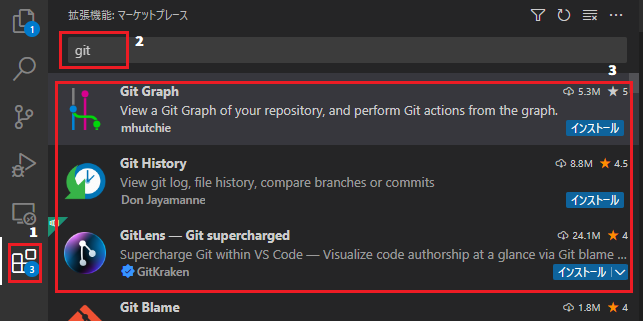
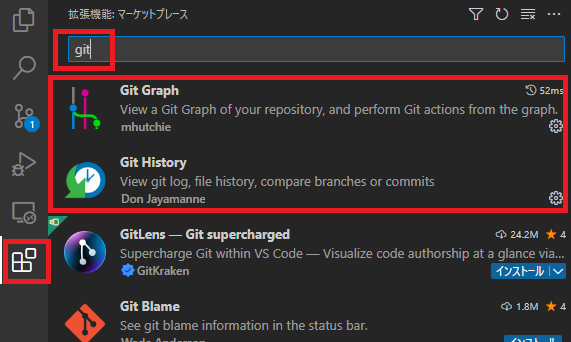
加筆

Changed region(s): [[0.0, 0.0, 1.0, 1.0], [0.8039, 0.0, 0.9825, 0.0623], [0.0, 0.0, 0.0595, 0.1246]]

diff --git a/README.md b/README.md
@@ -4,9 +4,7 @@
 
 ## Git の環境構築
 
-vscode の拡張昨日から検索欄に`git`と入れ、 Git Graph 、 Git History 、 GitLens の3つをインストールしてください。
-
-git graph はいらない？
+vscode の拡張昨日から検索欄に`git`と入れ、 Git Graph 、 Git History の2つをインストールしてください。
 
 ![git検索](./markDownResource/git1.png)
 
@@ -14,7 +12,7 @@ git graph はいらない？
 
 ## Git とは
 
-Git とは、ソースコードなどの変更履歴を記録・追跡するための**バージョン管理システム**です。Git を使うことで、誰が、いつ、どのような変更を行ったかを記録することができます。
+Git とは、ソースコードなどの変更履歴を記録・追跡するための**バージョン管理システム**です。Git を使うことで、**誰が、いつ、どのような変更を行ったかを記録**することができます。
 
 覚えてほしい単語
 
@@ -27,6 +25,7 @@ commit
 branch
 - local branch
 - remote branch
+checkout
 push
 pull
 pull request
@@ -52,7 +51,7 @@ Github
 
 ctr + p を押してコマンドパレットを表示。(Mac は多分 Command + p)
 
-コマンドパレットに`> git clone` と入力し、`git クローン`を選択。 github から複製を選ぶ。Github にログインしていない場合はログインする。権限はすべて許可してください。
+コマンドパレットに `> git clone` と入力し、`git クローン`を選択。 github から複製を選ぶ。Github にログインしていない場合はログインする。権限はすべて許可してください。
 
 ![gir clone](./markDownResource/clone1.png)
 
@@ -69,15 +68,15 @@ ctr + p を押してコマンドパレットを表示。(Mac は多分 Command +
 
 コミットとは、ファイルやディレクトリの追加・変更・削除などの**変更履歴をリポジトリに記録すること**です。コミットすると、その時点のファイルやディレクトリの状態が記録されます。コミットするときは、どのような追加・変更・削除を行ったかを示すコミットメッセージを一言程度で書きます。
 
-ここで、このリポジトリのコミット履歴を見てみましょう。左の方の GitLens のアイコンを押して、 Commit Graph を選択してください。すると、下の方にコミット履歴が見れると思います。下の画像はちょっと前のやつなので、みなさんが見ているものとは異なると思います。
+ここで、このリポジトリのコミット履歴を見てみましょう。下の方の GitGraph のアイコンを押してください。コミット履歴のグラフのタブが開きます。下の画像はちょっと前のやつなので、みなさんが見ているものとは異なると思います。
 
 ![commit](./markDownResource/commit1.png)
 
-１つ１つがコミット履歴です。誰が、いつ(いつぐらい前)、何を編集したのかわかると思います。ためにし過去のコミット履歴を１つ選択して、右の方の `COMMIT GRAPH DETAILS` をみてください。コミットの詳しい内容が書いてあります。`FILES CHANGED` の欄が１番大事です。この欄には、そのコミットでどのファイルがどのように変更されたのかが書いてあります。
+１つ１つがコミット履歴です。誰が、いつ、何を編集したのかわかると思います。ためにし過去のコミット履歴を１つ選択してみてください。コミットの詳しい内容が書いてあります。
 
 ![commit details](./markDownResource/commit2.png)
 
-なにか１つファイルを選択してみてください。すると、そのコミットでのそのファイルの差分が見れます。左側に変更前、右側に変更後があります。ソースコードなどのテキストファイルでは、そのコミットで削除された部分は変更前のところに赤くハイライトされます。追加された部分は変更後のところに緑でハイライトされます。
+左に書いてあるファイルを選択してみてください(以下の画像ならREADME.mdがわかりやすい)。すると、そのコミットでのそのファイルの差分が見れます。左側に変更前、右側に変更後があります。ソースコードなどのテキストファイルでは、そのコミットで削除された部分は変更前のところに赤くハイライトされます。追加された部分は変更後のところに緑でハイライトされます。
 
 ![commit diff](./markDownResource/commit3.png)
 
@@ -85,6 +84,6 @@ ctr + p を押してコマンドパレットを表示。(Mac は多分 Command +
 
 ## branch (ブランチ)
 
-ブランチとは、**変更履歴を記録していく系統**です。複数のブランチがあると、複数人での作業を効率的に行うことができます。ブランチを切ると、そのブランチには現在のブランチの情報がコピーされます。ブランチを切るときは、現在のブランチの情報をコピーして新しいブランチを作成するので、ブランチを切るときは、現在のブランチの情報をコミットしておく必要があります。
+ブランチとは、**変更履歴を記録していく系統**です。基本的に１つの機能につき、１つのブランチをつ作ります。以下に MCC のホームページのブランチを示します。
 
 ![sample graph](./markDownResource/sample-graph1.png)
